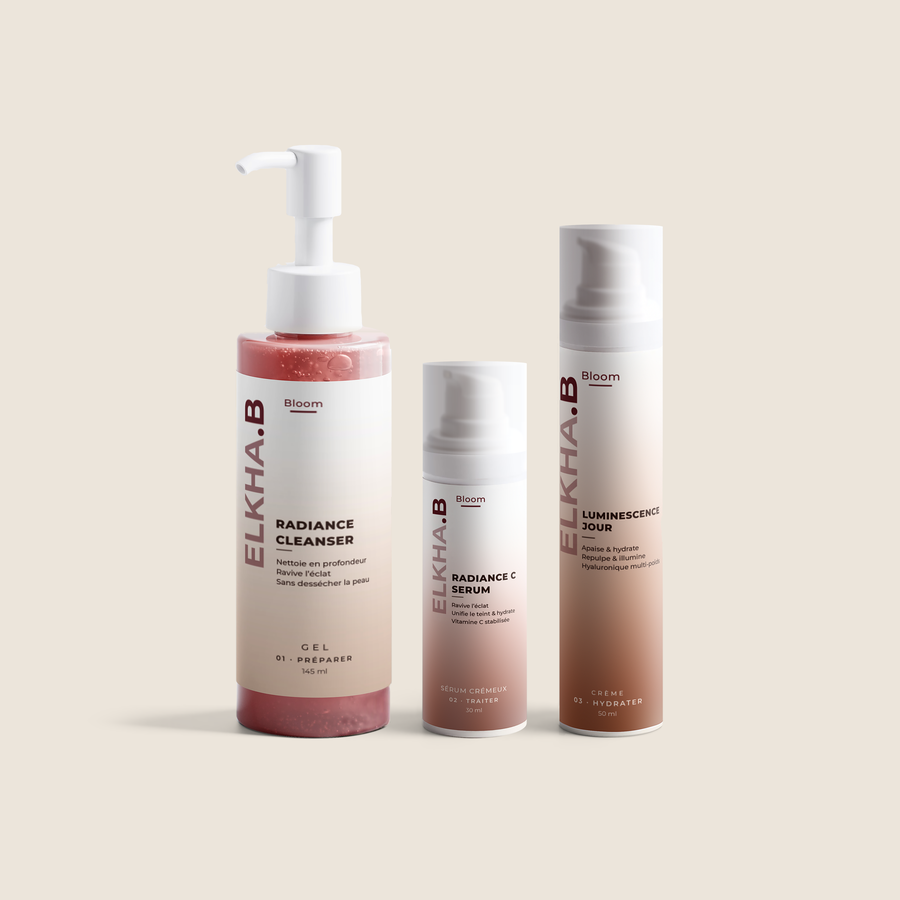
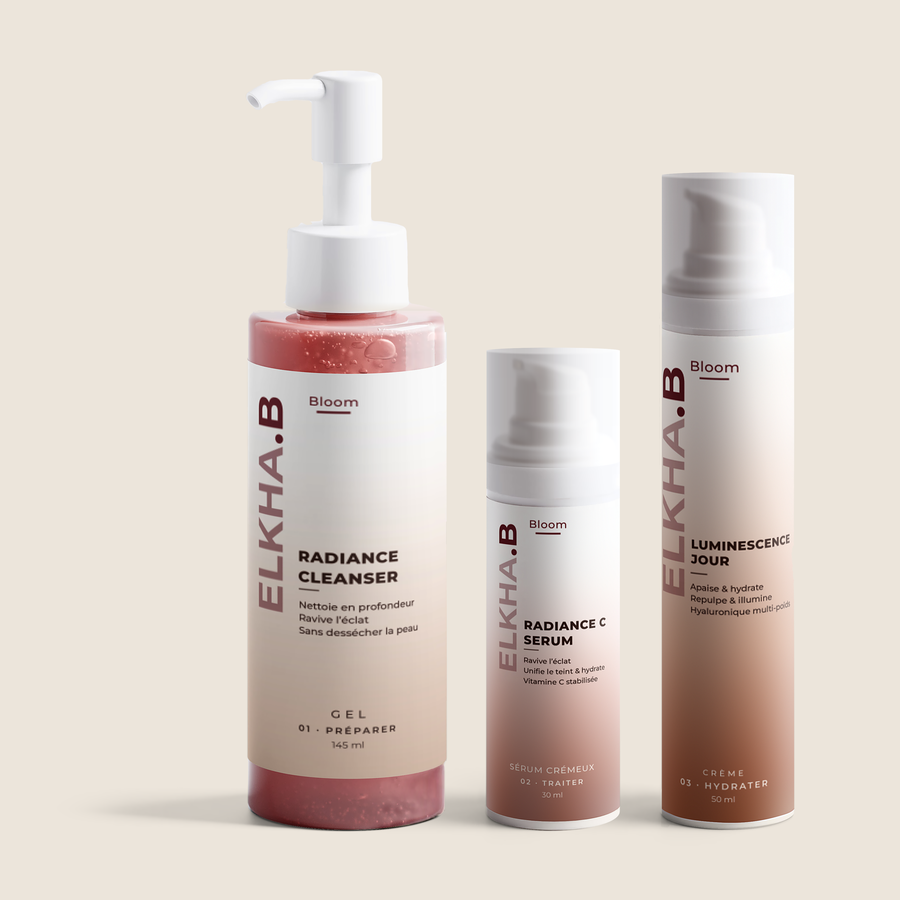
Add files via upload

diff --git a/produits-data-test.js b/produits-data-test.js
@@ -1132,13 +1132,13 @@ window.EB_PRODUITS = {
     // ┌─────────────────────────────────────────────────────────────────┐
     // │ 📷  DIAPORAMA DE LA FICHE — Routine Éclat                       │
     // └─────────────────────────────────────────────────────────────────┘
+    carte: { position: "50% 50%", zoom: 1 },   // cadrage de la photo sur la carte (page Routines)
     media: {
+      miniature: "https://elkhabskincare.github.io/elkhab-site/bloom-routine-eclat-peau-mixte.png",   // 📷 petite photo carrée (recherche, mini-fiches)
       type: "diaporama",
       images: [
-        // 📷 1. ROUTINE PEAU MIXTE À GRASSE (Radiance Cleanser)
-        "https://cdn.shopify.com/s/files/1/1016/8683/7593/files/routine-eclat-peau-mixte-carrousel_1.png?v=1792677686",
-        // 📷 2. ROUTINE PEAU SÈCHE OU SENSIBLE (Milky Bloom)
-        "https://cdn.shopify.com/s/files/1/1016/8683/7593/files/routine-eclat-peau-sensible-carrousel_1.png?v=1792677687"
+        "https://elkhabskincare.github.io/elkhab-site/bloom-fiche-routine-eclat-peau-mixte.png",
+        "https://elkhabskincare.github.io/elkhab-site/bloom-fiche-routine-eclat-peau-sensible.png"
       ]
     },
 
@@ -1473,12 +1473,13 @@ window.EB_PRODUITS = {
     // ┌─────────────────────────────────────────────────────────────────┐
     // │ 📷  DIAPORAMA DE LA FICHE — Routine Hydratation
     // └─────────────────────────────────────────────────────────────────┘
+    carte: { position: "50% 50%", zoom: 1 },   // cadrage de la photo sur la carte (page Routines)
     media: {
+      miniature: "https://elkhabskincare.github.io/elkhab-site/bloom-routine-hydratation.png",   // 📷 petite photo carrée (recherche, mini-fiches)
       type: "diaporama",
       mobileSeulement: [2],   // la photo 2 ne s'affiche que sur téléphone
       images: [
-        // 📷 1. PHOTO DE LA ROUTINE
-        "https://cdn.shopify.com/s/files/1/1016/8683/7593/files/routine-hydratation-v2.png"
+        "https://elkhabskincare.github.io/elkhab-site/bloom-fiche-routine-hydratation.png"
       ]
     },
 
@@ -1510,21 +1511,24 @@ window.EB_PRODUITS = {
 
     choixLabel: "Choisissez votre protection",
     photosTeintes: "radiance-protect",   // petites photos de rappel reprises de cette fiche
+    teinteDepart: 1,   // version affichée à l'ouverture (photo du carrousel)
     variantes: [
-      { label: "SANS TEINTE", variantId: "59547258618201", photo: 1, image: "https://elkhabskincare.github.io/elkhab-site/bloom-mini-radiance-protect-sans-teinte.png" },
-      { label: "TEINTÉ",      variantId: "59547258650969", photo: 0, image: "https://elkhabskincare.github.io/elkhab-site/bloom-mini-radiance-protect-teinte.png" }
+      { label: "SANS TEINTE", variantId: "59547258618201", photos: ["https://elkhabskincare.github.io/elkhab-site/bloom-fiche-routine-fermete-sans-teinte.png"], image: "https://elkhabskincare.github.io/elkhab-site/bloom-mini-radiance-protect-sans-teinte.png" },
+      { label: "TEINTÉ",      variantId: "59547258650969", photos: ["https://elkhabskincare.github.io/elkhab-site/bloom-fiche-routine-fermete.png"], image: "https://elkhabskincare.github.io/elkhab-site/bloom-mini-radiance-protect-teinte.png" }
     ],
 
     // ┌─────────────────────────────────────────────────────────────────┐
     // │ 📷  DIAPORAMA DE LA FICHE — Routine Fermeté 
     // └─────────────────────────────────────────────────────────────────┘
+    carte: { position: "50% 50%", zoom: 1 },   // cadrage de la photo sur la carte (page Routines)
     media: {
+      miniature: "https://elkhabskincare.github.io/elkhab-site/bloom-routine-fermete.png",   // 📷 petite photo carrée (recherche, mini-fiches)
       type: "diaporama",
       mobileSeulement: [2],   // la photo 2 ne s'affiche que sur téléphone
       images: [
-        // 📷 1. PHOTO DE LA ROUTINE
-        "https://cdn.shopify.com/s/files/1/1016/8683/7593/files/routine-fermete-carrousel-v2.png?v=1793386032"
-      ]
+        "https://elkhabskincare.github.io/elkhab-site/bloom-fiche-routine-fermete.png"
+      ],
+      communes: []   // pas de photo commune : seule la scène de la version choisie s'affiche
     },
 
     // ┌─────────────────────────────────────────────────────────────────┐
@@ -1555,23 +1559,26 @@ window.EB_PRODUITS = {
 
     choixLabel: "Choisissez votre teinte",
     photosTeintes: "lumiveil-cc-cream",   // petites photos de rappel reprises de cette fiche
+    teinteDepart: 1,   // version affichée à l'ouverture (photo du carrousel)
     variantes: [
-      { label: "N°B1 CLAIR", variantId: "59358176477529", photo: 0, image: "https://elkhabskincare.github.io/elkhab-site/bloom-mini-lumiveil-b1-clair.png" },
-      { label: "N°B2 MOYEN", variantId: "59358197186905", photo: 1, image: "https://elkhabskincare.github.io/elkhab-site/bloom-mini-lumiveil-b2-moyen.png" },
-      { label: "N°B3 HÂLÉ",  variantId: "59358197219673", photo: 2, image: "https://elkhabskincare.github.io/elkhab-site/bloom-mini-lumiveil-b3-hale.png" },
-      { label: "N°B4 FONCÉ", variantId: "59358197252441", photo: 3, image: "https://elkhabskincare.github.io/elkhab-site/bloom-mini-lumiveil-b4-fonce.png" }
+      { label: "N°B1 CLAIR", variantId: "59358176477529", photos: ["https://elkhabskincare.github.io/elkhab-site/bloom-fiche-routine-equilibre-b1.png"], image: "https://elkhabskincare.github.io/elkhab-site/bloom-mini-lumiveil-b1-clair.png" },
+      { label: "N°B2 MOYEN", variantId: "59358197186905", photos: ["https://elkhabskincare.github.io/elkhab-site/bloom-fiche-routine-equilibre.png"], image: "https://elkhabskincare.github.io/elkhab-site/bloom-mini-lumiveil-b2-moyen.png" },
+      { label: "N°B3 HÂLÉ",  variantId: "59358197219673", photos: ["https://elkhabskincare.github.io/elkhab-site/bloom-fiche-routine-equilibre-b3.png"], image: "https://elkhabskincare.github.io/elkhab-site/bloom-mini-lumiveil-b3-hale.png" },
+      { label: "N°B4 FONCÉ", variantId: "59358197252441", photos: ["https://elkhabskincare.github.io/elkhab-site/bloom-fiche-routine-equilibre-b4.png"], image: "https://elkhabskincare.github.io/elkhab-site/bloom-mini-lumiveil-b4-fonce.png" }
     ],
 
     // ┌─────────────────────────────────────────────────────────────────┐
     // │ 📷  DIAPORAMA DE LA FICHE — Routine Équilibre
     // └─────────────────────────────────────────────────────────────────┘
+    carte: { position: "50% 50%", zoom: 1 },   // cadrage de la photo sur la carte (page Routines)
     media: {
+      miniature: "https://elkhabskincare.github.io/elkhab-site/bloom-routine-equilibre.png",   // 📷 petite photo carrée (recherche, mini-fiches)
       type: "diaporama",
       mobileSeulement: [2],   // la photo 2 ne s'affiche que sur téléphone
       images: [
-        // 📷 1. PHOTO DE LA ROUTINE
-        "https://cdn.shopify.com/s/files/1/1016/8683/7593/files/routine-equilibre-v2.png"
-      ]
+        "https://elkhabskincare.github.io/elkhab-site/bloom-fiche-routine-equilibre.png"
+      ],
+      communes: []   // pas de photo commune : seule la scène de la teinte choisie s'affiche
     },
 
     // ┌─────────────────────────────────────────────────────────────────┐
@@ -1602,23 +1609,26 @@ window.EB_PRODUITS = {
 
     choixLabel: "Choisissez votre teinte",
     photosTeintes: "lumiveil-cc-cream",   // petites photos de rappel reprises de cette fiche
+    teinteDepart: 1,   // version affichée à l'ouverture (photo du carrousel)
     variantes: [
-      { label: "N°B1 CLAIR", variantId: "59358330847577", photo: 0, image: "https://elkhabskincare.github.io/elkhab-site/bloom-mini-lumiveil-b1-clair.png" },
-      { label: "N°B2 MOYEN", variantId: "59358346903897", photo: 1, image: "https://elkhabskincare.github.io/elkhab-site/bloom-mini-lumiveil-b2-moyen.png" },
-      { label: "N°B3 HÂLÉ",  variantId: "59358346936665", photo: 2, image: "https://elkhabskincare.github.io/elkhab-site/bloom-mini-lumiveil-b3-hale.png" },
-      { label: "N°B4 FONCÉ", variantId: "59358346969433", photo: 3, image: "https://elkhabskincare.github.io/elkhab-site/bloom-mini-lumiveil-b4-fonce.png" }
+      { label: "N°B1 CLAIR", variantId: "59358330847577", photos: ["https://elkhabskincare.github.io/elkhab-site/bloom-fiche-routine-teint-protection-b1.png"], image: "https://elkhabskincare.github.io/elkhab-site/bloom-mini-lumiveil-b1-clair.png" },
+      { label: "N°B2 MOYEN", variantId: "59358346903897", photos: ["https://elkhabskincare.github.io/elkhab-site/bloom-fiche-routine-teint-protection.png"], image: "https://elkhabskincare.github.io/elkhab-site/bloom-mini-lumiveil-b2-moyen.png" },
+      { label: "N°B3 HÂLÉ",  variantId: "59358346936665", photos: ["https://elkhabskincare.github.io/elkhab-site/bloom-fiche-routine-teint-protection-b3.png"], image: "https://elkhabskincare.github.io/elkhab-site/bloom-mini-lumiveil-b3-hale.png" },
+      { label: "N°B4 FONCÉ", variantId: "59358346969433", photos: ["https://elkhabskincare.github.io/elkhab-site/bloom-fiche-routine-teint-protection-b4.png"], image: "https://elkhabskincare.github.io/elkhab-site/bloom-mini-lumiveil-b4-fonce.png" }
     ],
 
     // ┌─────────────────────────────────────────────────────────────────┐
     // │ 📷  DIAPORAMA DE LA FICHE — Routine Teint & Protection
     // └─────────────────────────────────────────────────────────────────┘
+    carte: { position: "50% 50%", zoom: 1 },   // cadrage de la photo sur la carte (page Routines)
     media: {
+      miniature: "https://elkhabskincare.github.io/elkhab-site/bloom-routine-teint-protection.png",   // 📷 petite photo carrée (recherche, mini-fiches)
       type: "diaporama",
       mobileSeulement: [2],   // la photo 2 ne s'affiche que sur téléphone
       images: [
-        // 📷 1. PHOTO DE LA ROUTINE
-        "https://cdn.shopify.com/s/files/1/1016/8683/7593/files/routine-teint-protection-carrousel.png?v=1793385991"
-      ]
+        "https://elkhabskincare.github.io/elkhab-site/bloom-fiche-routine-teint-protection.png"
+      ],
+      communes: []   // pas de photo commune : seule la scène de la teinte choisie s'affiche
     },
 
     // ┌─────────────────────────────────────────────────────────────────┐
@@ -1657,12 +1667,13 @@ window.EB_PRODUITS = {
     // ┌─────────────────────────────────────────────────────────────────┐
     // │ 📷  DIAPORAMA DE LA FICHE — Routine Regard
     // └─────────────────────────────────────────────────────────────────┘
+    carte: { position: "50% 50%", zoom: 1 },   // cadrage de la photo sur la carte (page Routines)
     media: {
+      miniature: "https://elkhabskincare.github.io/elkhab-site/bloom-routine-regard.png",   // 📷 petite photo carrée (recherche, mini-fiches)
       type: "diaporama",
       mobileSeulement: [2],   // la photo 2 ne s'affiche que sur téléphone
       images: [
-        // 📷 1. PHOTO DE LA ROUTINE
-        "https://cdn.shopify.com/s/files/1/1016/8683/7593/files/routine-regard-carrousel.png?v=1793385845"
+        "https://elkhabskincare.github.io/elkhab-site/bloom-fiche-routine-regard.png"
       ]
     },
 

diff --git a/fiche-engine.js b/fiche-engine.js
@@ -34,6 +34,11 @@
   + ".eb-fp-slides{display:flex;overflow-x:auto;scroll-snap-type:x mandatory;scrollbar-width:none}"
   + ".eb-fp-slides::-webkit-scrollbar{display:none}"
   + ".eb-fp-slide{flex:0 0 100%;scroll-snap-align:start}"
+  // Zoom des photos sable : un toucher (ou un clic) agrandit, on se promène en glissant le doigt (ou la souris), un autre toucher ramène la photo
+  + ".eb-fp-media.eb-fp-unique{overflow:hidden}"
+  + ".eb-fp-left img.eb-zoomable{transition:transform .35s ease;will-change:transform}"
+  + "@media (hover:hover){.eb-fp-left img.eb-zoomable{cursor:zoom-in}.eb-fp-left img.eb-zoomable.eb-zoom{cursor:zoom-out}}"
+  + ".eb-fp-left img.eb-zoomable.eb-zoom{transform:scale(2.2) !important;touch-action:none}"
   + ".eb-fp-slide{clip-path:inset(0 1px)}"   /* la photo voisine ne dépasse jamais d'un pixel (trait au bord de la photo, écrans Windows) */
   + ".eb-fp-slide img,.eb-fp-slide video{display:block;width:100%;height:auto}"
   // Miniatures du diaporama (à la place des points) : en bas de la photo sur téléphone, en colonne à droite sur ordinateur
@@ -610,6 +615,8 @@
     document.body.appendChild(cartBtn);
     suivrePanier();
 
+    brancherZoom();
+
     overlay.addEventListener('click', function(e){
       // Accordéon : une seule section ouverte à la fois
       var head = e.target.closest('.eb-fp-acc-head');
@@ -668,7 +675,7 @@
           apercu.classList.remove('eb-flash'); void apercu.offsetWidth; apercu.classList.add('eb-flash');
         }
         // Soin à teintes : le diaporama est remplacé par les photos de la teinte choisie
-        var ficheSel = window.EB_PRODUITS[bloc.getAttribute('data-produit')];
+        var ficheSel = (cible === 'main' && courant) ? (courant.data || window.EB_PRODUITS[courant.id]) : window.EB_PRODUITS[bloc.getAttribute('data-produit')];   // la fiche ouverte (une routine peut reprendre les teintes d'un autre soin)
         var kSel = Array.prototype.indexOf.call(bloc.querySelectorAll('.eb-fp-sel-opt'), opt);
         if(cible === 'main' && ficheSel && ficheSel.variantes && ficheSel.variantes[kSel] && ficheSel.variantes[kSel].photos){
           var gauche = overlay.querySelector('.eb-fp-left');
@@ -772,9 +779,12 @@
     var v = data.variantes && data.variantes[k];
     if(!v || !v.photos || !data.media) return data.media;
     var m = {}; for(var p in data.media) m[p] = data.media[p];
-    m.images = v.photos.concat(data.media.images || []);
+    m.images = v.photos.concat(data.media.communes || data.media.images || []);   // communes : [] = seule la photo de la version choisie
     return m;
   }
+
+  // Zoom : les photos sable (soin seul, soin + boîte, scènes des routines) s'agrandissent au toucher ou au clic
+  function zoomClasse(src){ return /bloom-fiche-(?!.*mannequin)/.test(src) ? ' class="eb-zoomable"' : ''; }
 
   function mediaHTML(m, nom){
     if(!m) return '';
@@ -789,7 +799,7 @@
       imgs = imgs.filter(function(_, i){ return m.mobileSeulement.indexOf(i + 1) === -1; });
     }
     if(imgs.length <= 1){
-      return imgs.length ? '<div class="eb-fp-media"><img src="' + esc(hd(imgs[0], 1600)) + '" alt="' + esc(nom) + '"></div>' : '';
+      return imgs.length ? '<div class="eb-fp-media eb-fp-unique"><img' + zoomClasse(imgs[0]) + ' src="' + esc(hd(imgs[0], 1600)) + '" alt="' + esc(nom) + '"></div>' : '';
     }
     var h = '<div class="eb-fp-media"><div class="eb-fp-slides">';
     imgs.forEach(function(src){
@@ -797,7 +807,7 @@
         h += '<div class="eb-fp-slide"><video muted loop playsinline preload="metadata" src="' + esc(src) + '"></video></div>';
       } else {
         var amb = /-ambiance(-v\d+)?\.jpg/.test(src);   // photo d'ambiance des fêtes : texte alternatif plus précis pour Google
-        h += '<div class="eb-fp-slide"><img src="' + esc(hd(src, 1600)) + '" alt="' + esc(nom) + (amb ? ' – coffret cadeau des fêtes' : '') + '"></div>';
+        h += '<div class="eb-fp-slide"><img' + zoomClasse(src) + ' src="' + esc(hd(src, 1600)) + '" alt="' + esc(nom) + (amb ? ' – coffret cadeau des fêtes' : '') + '"></div>';
       }
     });
     // Miniatures : la photo elle-même (déjà chargée par le diaporama) ; pour une vidéo, son image d'aperçu (media.apercus)
@@ -807,7 +817,7 @@
       var video = /\.mp4(\?|$)/i.test(src), ap = apercus[src];
       var contenu = ap ? '<img src="' + esc(ap) + '" alt="">'
         : video ? '<video muted playsinline preload="metadata" src="' + esc(src) + '#t=0.5"></video>'
-        : '<img' + (/bloom-fiche-(?!rituel)/.test(src) ? ' class="eb-fp-mini-flacon"' : '') + ' src="' + esc(hd(src, 1600)) + '" alt="">';
+        : '<img' + (/bloom-fiche-(?!rituel|routine)/.test(src) ? ' class="eb-fp-mini-flacon"' : '') + ' src="' + esc(hd(src, 1600)) + '" alt="">';
       h += '<button type="button" class="eb-fp-mini' + (i === 0 ? ' on' : '') + '" aria-label="Voir la photo ' + (i + 1) + '">' + contenu + '</button>';
     });
     return h + '</div></div>';
@@ -835,6 +845,45 @@
       };
       t.src = img.currentSrc || img.src;
     });
+  }
+
+  // ---------- Zoom des photos ----------
+  function dezoomer(){
+    if(overlay) overlay.querySelectorAll('.eb-fp-left img.eb-zoom').forEach(function(img){ img.classList.remove('eb-zoom'); });
+  }
+  function brancherZoom(){
+    var x0 = 0, y0 = 0;
+    var viser = function(img, x, y){
+      var r = img.getBoundingClientRect();
+      var px = Math.min(100, Math.max(0, (x - r.left) / r.width * 100)), py = Math.min(100, Math.max(0, (y - r.top) / r.height * 100));
+      img.style.transformOrigin = px + '% ' + py + '%';
+    };
+    overlay.addEventListener('mousedown', function(e){ x0 = e.clientX; y0 = e.clientY; }, true);
+    overlay.addEventListener('click', function(e){
+      var img = e.target.closest && e.target.closest('.eb-fp-left img.eb-zoomable');
+      if(!img) return;
+      if(Math.abs(e.clientX - x0) > 6 || Math.abs(e.clientY - y0) > 6) return;   // c'était un glissement, pas un clic
+      e.stopPropagation();
+      if(img.classList.contains('eb-zoom')){ img.classList.remove('eb-zoom'); return; }
+      clearTimeout(slideTimer);   // la cliente regarde de près : le diaporama s'arrête
+      viser(img, e.clientX, e.clientY);
+      img.classList.add('eb-zoom');
+    }, true);
+    // Ordinateur : une fois zoomée, la photo suit la souris
+    overlay.addEventListener('mousemove', function(e){
+      var img = e.target.closest && e.target.closest('.eb-fp-left img.eb-zoom');
+      if(img) viser(img, e.clientX, e.clientY);
+    });
+    // Téléphone : une fois zoomée, on se promène en glissant le doigt (le diaporama ne bouge pas)
+    var tactile = function(e){
+      var img = e.target.closest && e.target.closest('.eb-fp-left img.eb-zoom');
+      if(!img) return;
+      e.stopPropagation();
+      if(e.type === 'touchmove'){ e.preventDefault(); viser(img, e.touches[0].clientX, e.touches[0].clientY); }
+    };
+    overlay.addEventListener('touchstart', tactile, { capture: true, passive: true });
+    overlay.addEventListener('touchmove', tactile, { capture: true, passive: false });
+    overlay.addEventListener('touchend', tactile, { capture: true, passive: true });
   }
 
   function demarrerDiaporama(){
@@ -867,7 +916,8 @@
     var attente = null;
     choixManuel = false;
     var aller = function(i){
-      clearTimeout(slideTimer);   // la cliente fait défiler elle-même : le défilement automatique s'arrête
+      clearTimeout(slideTimer);
+      dezoomer();   // la cliente fait défiler elle-même : le défilement automatique s'arrête
       i = (i + slides.length) % slides.length;
       track.scrollTo({ left: i * track.clientWidth, behavior: 'smooth' });
     };
@@ -908,7 +958,7 @@
     window.addEventListener('mouseup', function(ev){ fin(ev.clientX); });
     track.addEventListener('scroll', function(){
       clearTimeout(attente);
-      attente = setTimeout(function(){ var i = indexActuel(); activer(i); suivreTeinte(i); }, 120);
+      attente = setTimeout(function(){ var i = indexActuel(); activer(i); suivreTeinte(i); dezoomer(); }, 120);
     }, { passive: true });
     activer(0);
     suivreTeinte(0);
